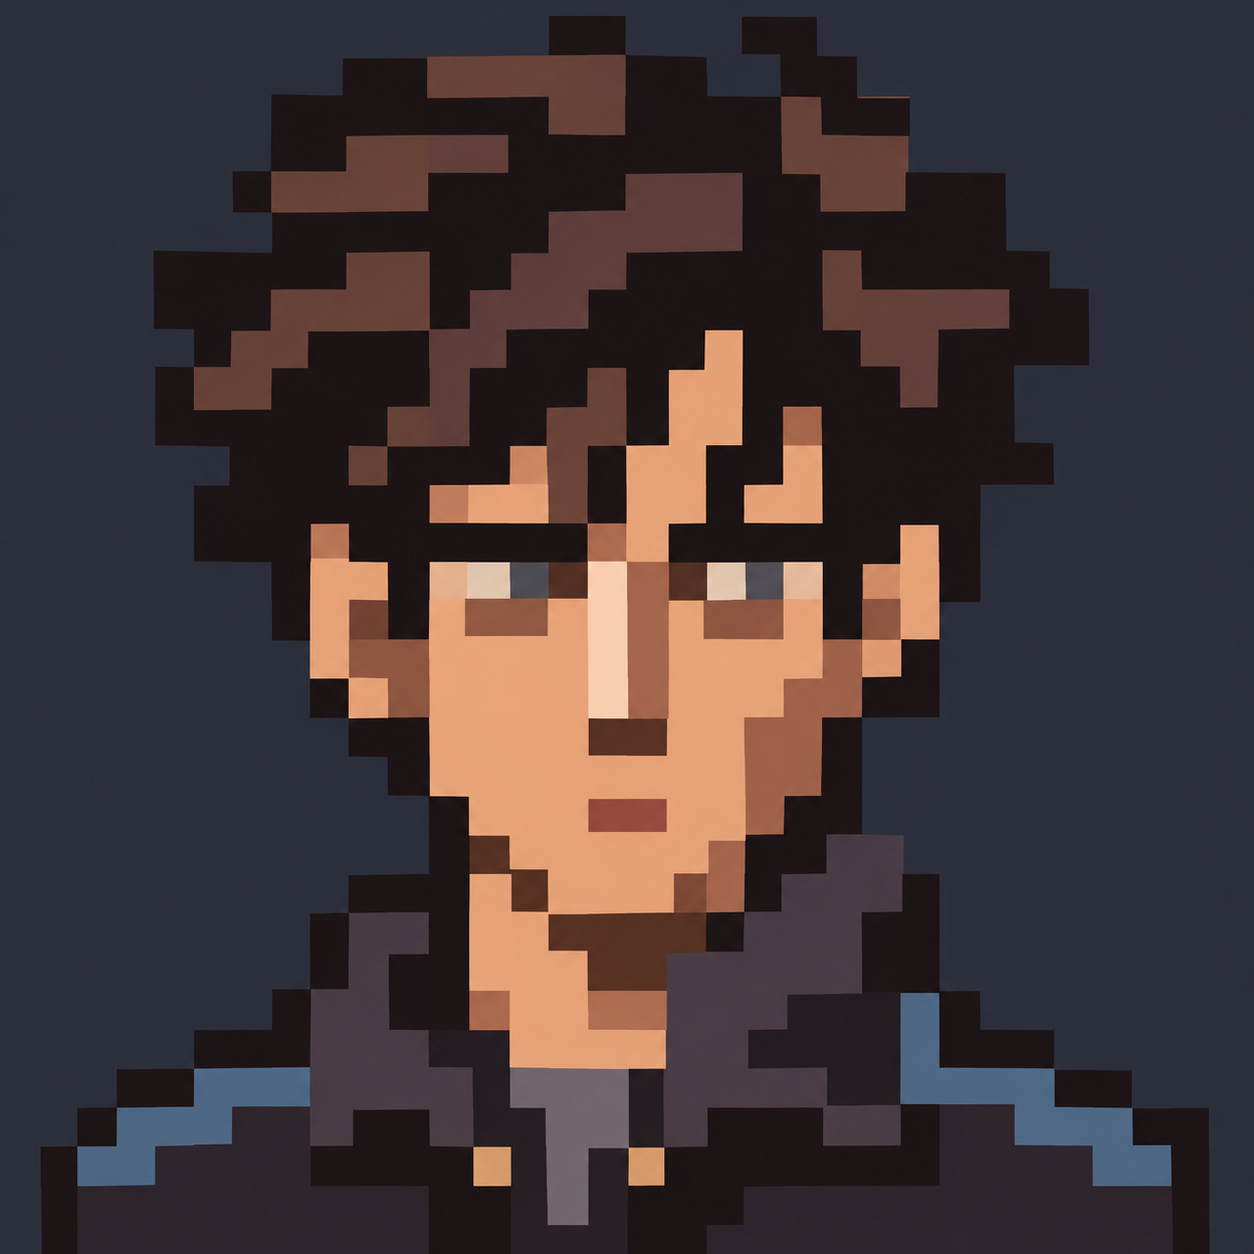
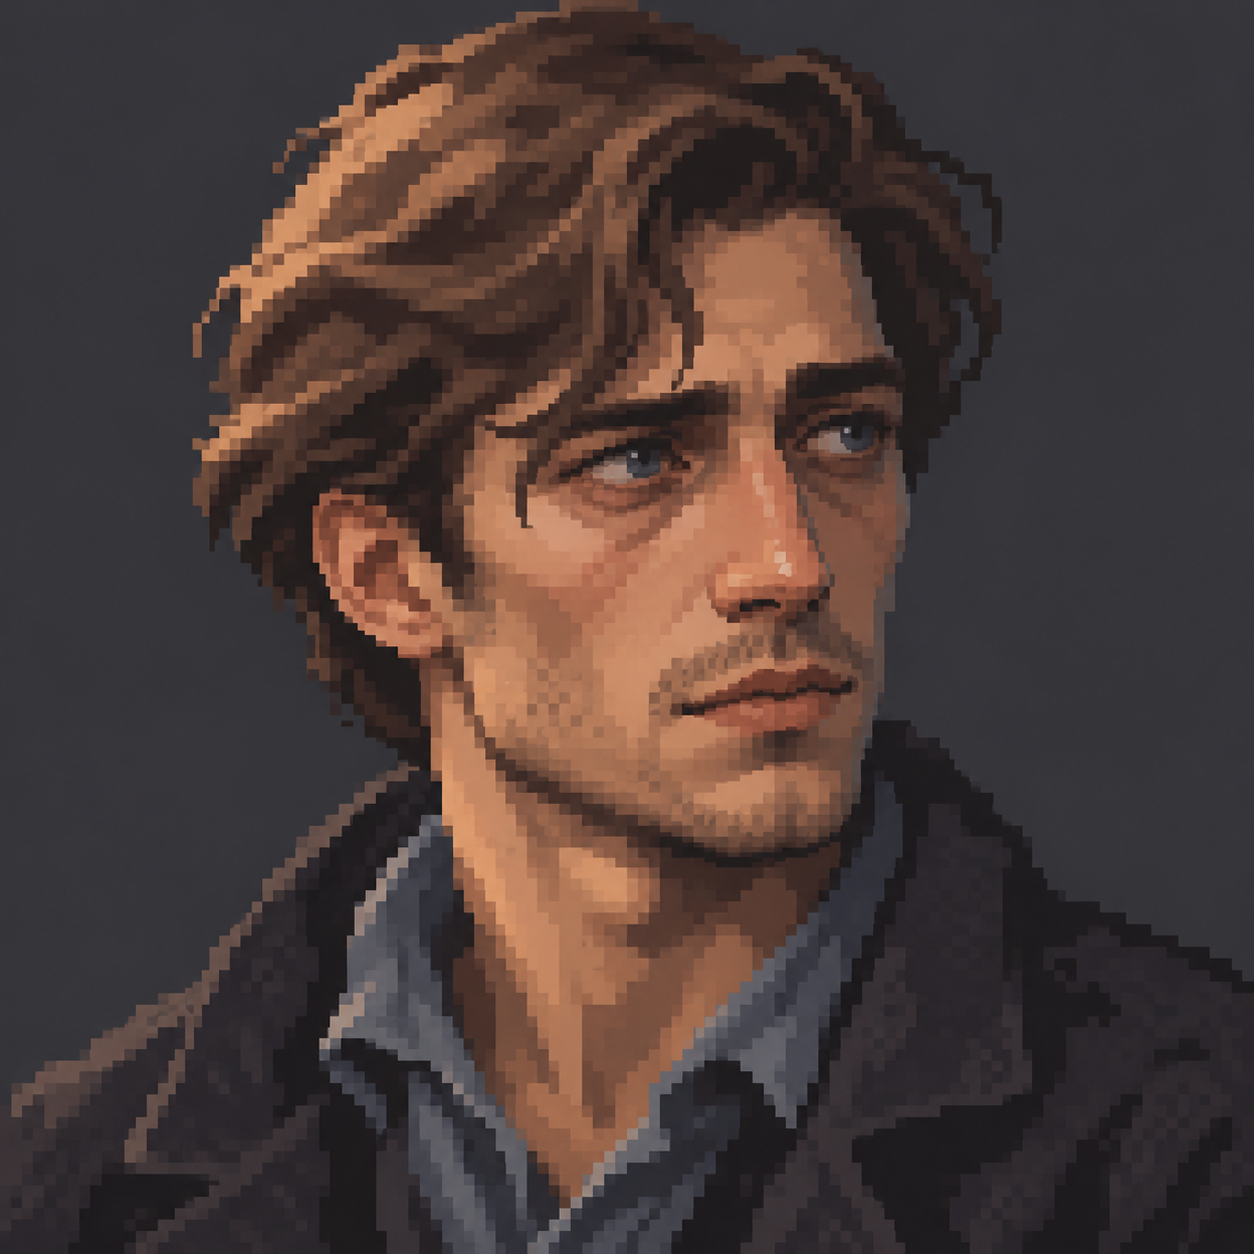
Animate dialogue seating and redraw tavern portraits

diff --git a/docs/gameplay/TAVERN_AUTHORING.md b/docs/gameplay/TAVERN_AUTHORING.md
@@ -11,7 +11,7 @@
 1. 在 Main 实例化 `scenes/access_denied/hub/tavern_npc.tscn`，命名并摆好站位。仅当需要阶段状态、对话或商店时，勾选 **Special NPC** 并填写相应资源。
 2. 在对应家具展开 `SeatPoint` 或 `Seats`，选中一个挂载 `TavernSeat` 的 `Marker3D`，把 NPC 本体拖入 **Initial Occupant Path**。初始占用归座位配置。运行时 NPC 只保存自己当前所坐的座位引用。
 3. 拖动座位点到坐垫上方。绕 Y 轴旋转标记，标记的本地 **-Z** 就是角色入座后的固定朝向。**Reach** 控制玩家按 F 入座的距离，**Npc Exit Distance** 控制 NPC 离席时向前寻找落脚点的距离。座位已占用时其他人不能使用。
-4. 玩家可以自由按 F 入座、起身。开场大姐头和商人段落由对话行的 `[#sit=commissioner]`、`[#sit=merchant]` 触发入座。按优先级把座位路径填入 `opening_sequence.gd` 的 `SEAT_CUES`，首选座位受阻时导演会试下一个。对话结束或装备交付后，导演会请求释放剧本安排的座位。离席点被占时仍可等通道清空后按 F。
+4. 玩家可以自由按 F 入座、起身。开场大姐头和商人段落由对话行的 `[#sit=commissioner]`、`[#sit=merchant]` 触发入座。按优先级把座位路径填入 `opening_sequence.gd` 的 `SEAT_CUES`。剧情入座会在座位前找可站立的落脚点，必要时沿桌边拐弯，然后转到座位固定朝向并渐变到坐姿。摆放家具时要保留一个玩家胶囊能经过的通道。首选座位不可达时会试同组备用位。对话结束或装备交付后，导演会请求释放剧本安排的座位。离席点被占时仍可等通道清空后按 F。
 
 ## 用鼠标摆行走路线
 

diff --git a/docs/testing.md b/docs/testing.md
@@ -4,6 +4,8 @@
 
 ## 当前五关定向记录
 
+2026-11-21 酒馆入座演出：本地 OpenGL 和暂存副本 headless 的开场均为 69/69。两段剧情分别逐帧检查位移、走路状态、中间蹲姿和最终座位朝向。取消探针在落座过程中取消父请求，确认角色仍站在安全位置，恢复输入且移除家具碰撞例外。旧 `presentation_interfaces_test` 在暂存副本为 61/63，未通过的是已坐下的 NPC 开启和关闭对话时的旧姿态断言。两项在上一个提交的对照运行中同样失败。
+
 2026-11-21 酒馆剧情坐席与路线编辑：本地 OpenGL 与暂存副本 headless 的开场流程均为 67/67，覆盖外景满血 100、恢复未标注场景说明的叙事、两段自动入座和离席、五位新增坐席顾客的场景坐标，以及伙计抵达员工门才离场。路线探针另验证了空路线保留角色、临时路线独立执行、终点停留、延时循环和抵达后隐藏。DOCX 选项文字和顺序匹配 54/54。暂存副本布局全部通过。本地旧布局测试仍有 1 项不符，具体检查普通沙发容器下的每件家具都有旧版左右坐垫节点。
 
 2026-11-20 酒馆坐席与头像：本地真实 OpenGL、暂存副本 headless 下的开场均为 61/61。新增覆盖三句内心独白无主角头像、两处镜头隐藏选项和返回后滚动到当前台词、角色共用 NPC 类、坐席占用、玩家坐着谈话与起身、伙计走到正门离场。另以导演脚本请求确认两套布局的大姐头可以从初始坐席起身并接收移动路线。DOCX 选项文字和顺序仍匹配 54/54。

diff --git a/docs/gameplay/PRESENTATION.md b/docs/gameplay/PRESENTATION.md
@@ -4,7 +4,7 @@
 
 酒馆坐席将角色的 `PresentationState.sitting` 设为 true，入座及坐着交谈都复用 `crouch` 动画。胶囊占位模型按坐姿高度同步缩短。
 
-开场头像位于 `resources/dialogue/portraits/`。主角、大姐头和酒保按法国角色设计，商人采用东亚面孔。内置 ImageGen 的绘制要求为接近 24 × 24 网格的粗像素观感、深灰底和少量平涂色块。主角保留疲惫神态，大姐头保留琥珀色义体接口，商人保留方框眼镜，酒保保留维修工装。框外头像使用最近邻采样。主角头像保存在素材目录，发言时界面只显示文字。
+开场头像位于 `resources/dialogue/portraits/`。主角、大姐头和酒保按法国角色设计，商人采用东亚面孔。内置 ImageGen 按旧港城题材绘制，采用低分辨率像素笔触、低饱和配色和暖色侧光。大姐头是蓬松的红色过肩长发，商人戴方框眼镜，酒保穿卷袖白衬衫、马甲和吧台围裙。框外头像使用最近邻采样。主角头像保存在素材目录，发言时界面只显示文字。
 
 ## 资源示例与入口
 
